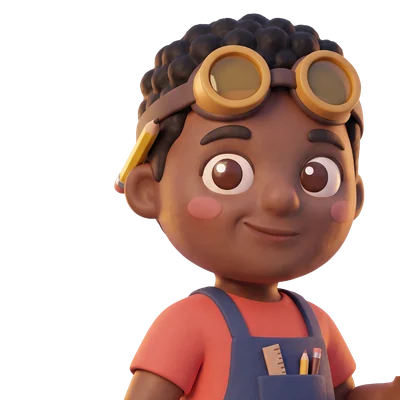
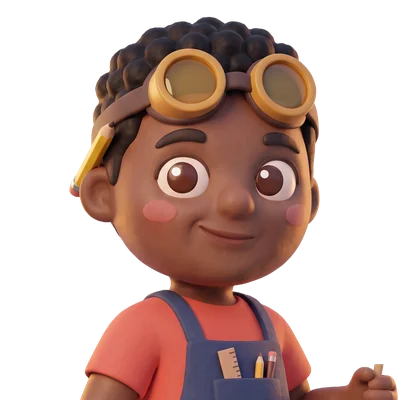
Julián centrado en sus círculos y escenas (2.7.6)

diff --git a/css/chispa.css b/css/chispa.css
@@ -1154,7 +1154,8 @@ html[data-movimiento="menos"] *, html[data-movimiento="menos"] *::before, html[d
 .vecino img[src$=".webp"] { width: auto; height: 70px; filter: drop-shadow(0 3px 3px rgba(43,33,29,.35)); }
 /* Episodio en plano medio: el personaje llena el lienzo y sus piernas pasan detrás de la hoja. */
 .ep-lienzo { container-type: size; }
-.actor-cuerpo:has(img[src$=".webp"]) { width: auto; max-width: 52%; margin-bottom: 0; display: flex; justify-content: center; }
+.actor-cuerpo:has(img[src$=".webp"]) { width: auto; max-width: 52%; margin-bottom: 0; display: flex; justify-content: flex-start; }
+/* Personajes con un objeto que sobresale a un lado (Julián y su molinete): se ancla el cuerpo, no la caja de la imagen. */
 .actor-cuerpo img.actor-fig[src$=".webp"] { width: auto; max-width: none; height: 118cqh; max-height: 560px; margin-bottom: -26cqh; filter: drop-shadow(0 10px 14px rgba(43,33,29,.28)); }
 /* Héroes de zona y de minijuego: de la rodilla para arriba. */
 .zona-heroe .zona-quien[src$=".webp"] { width: auto; height: 118%; bottom: -36%; filter: drop-shadow(0 8px 12px rgba(43,33,29,.3)); }
@@ -1165,3 +1166,4 @@ html[data-movimiento="menos"] *, html[data-movimiento="menos"] *::before, html[d
 .avatares button .av-img[src$=".webp"] { left: 6%; top: 12%; width: 88%; height: auto; transform: none; }
 .mi-inventor .av-mini[src$=".webp"] { left: 0; top: 4%; width: 100%; height: 100%; transform: none; object-fit: cover; }
 @media (max-height: 760px) { .avatares button .av-img[src$=".webp"] { left: 13%; top: 4%; width: 74%; } }
+.zona-heroe:has(.vista) .zona-quien[src*="personaje-julian"] { /* el molinete sobresale: se centra el cuerpo como el de los demás vecinos */ right: calc(4% - 30px); }

diff --git a/sw.js b/sw.js
@@ -1,6 +1,6 @@
 /* chispa · service worker: guarda la app y sus ilustraciones para que abra sin internet. No envía nada a ningún lado. */
 'use strict';
-const VERSION = 'chispa-v2.7.5';
+const VERSION = 'chispa-v2.7.6';
 const VOZ = 'chispa-voz-1';
 importScripts('js/imagenes.js', 'js/audios.js');
 const NUCLEO = ['./', './index.html', './manifest.webmanifest', './css/chispa.css',

diff --git a/README.md b/README.md
@@ -33,6 +33,7 @@ Ningún juego tiene tiempo límite. En el arroyo lo que se mueve se puede pausar
 - **Revisión en Figma, ronda 4 (2.7.3):** sin el aro punteado en la apertura (solo luz y luciérnagas); el inventor del escenario apoya los pies en el suelo; los vecinos del mapa llevan un contorno claro y un brillo suave, más leves que los de Cocuyo.
 - **Revisión en Figma, ronda 5 (2.7.4):** íconos de edad rehechos: una matita en su matera y un árbol con frutos, ambos con carita, sobre un círculo de color, más grandes y con un saltito al elegirlos.
 - **Revisión en Figma, ronda 5 (2.7.5):** los íconos de edad vuelven a su versión anterior. Nuevo vecino: **Julián, inventor de la plaza** (generado con Adobe Firefly). Guía los episodios de la Plaza, tiene su cromo y su sorpresa en el álbum, aparece en el mapa al completar la Plaza, entre los vecinos de la apertura y firma el diploma junto a Cocuyo.
+- **Revisión en Figma, ronda 6 (2.7.6):** la cara de Julián queda centrada en su círculo como la de los demás vecinos (apertura, álbum, avisos y diploma); en los episodios y en la Plaza su cuerpo se ancla como el de los otros, sin que el molinete lo corra a un lado.
 - **Revisión en Figma, ronda 3 (2.7.2):** el escenario de la elección ya no tiene globo: Cocuyo vuela a la izquierda con una estela de luz hacia el inventor, y la pregunta «¿Quién va a inventar hoy?» pasa a ser el título. El ícono del barrio recupera detalle (tejas, chimenea, ventana encendida, puerta, árbol, flores y camino) con contorno solo en las formas grandes.
 - **Revisión en Figma, ronda 2 (2.7.1):** el punto de la «i» del logo ahora es la chispa de la app; el botón de la apertura va sin ícono; el escenario de la elección usa el fondo de la plaza a nivel de calle, con Cocuyo pequeño y el globo sin tapar al inventor; la edad lleva una planta pequeña (Explorador) y un árbol (Experto); el mapa de noche ya no ilumina el muro amarillo del colegio (solo ventanas); la abuela aparece junto a la casa al completarla; el ícono del casillero vuelve a ser el casillero, con la chispa adentro, y el del barrio se simplificó.
 - **Revisión en Figma, ronda 1 (2.7):**
